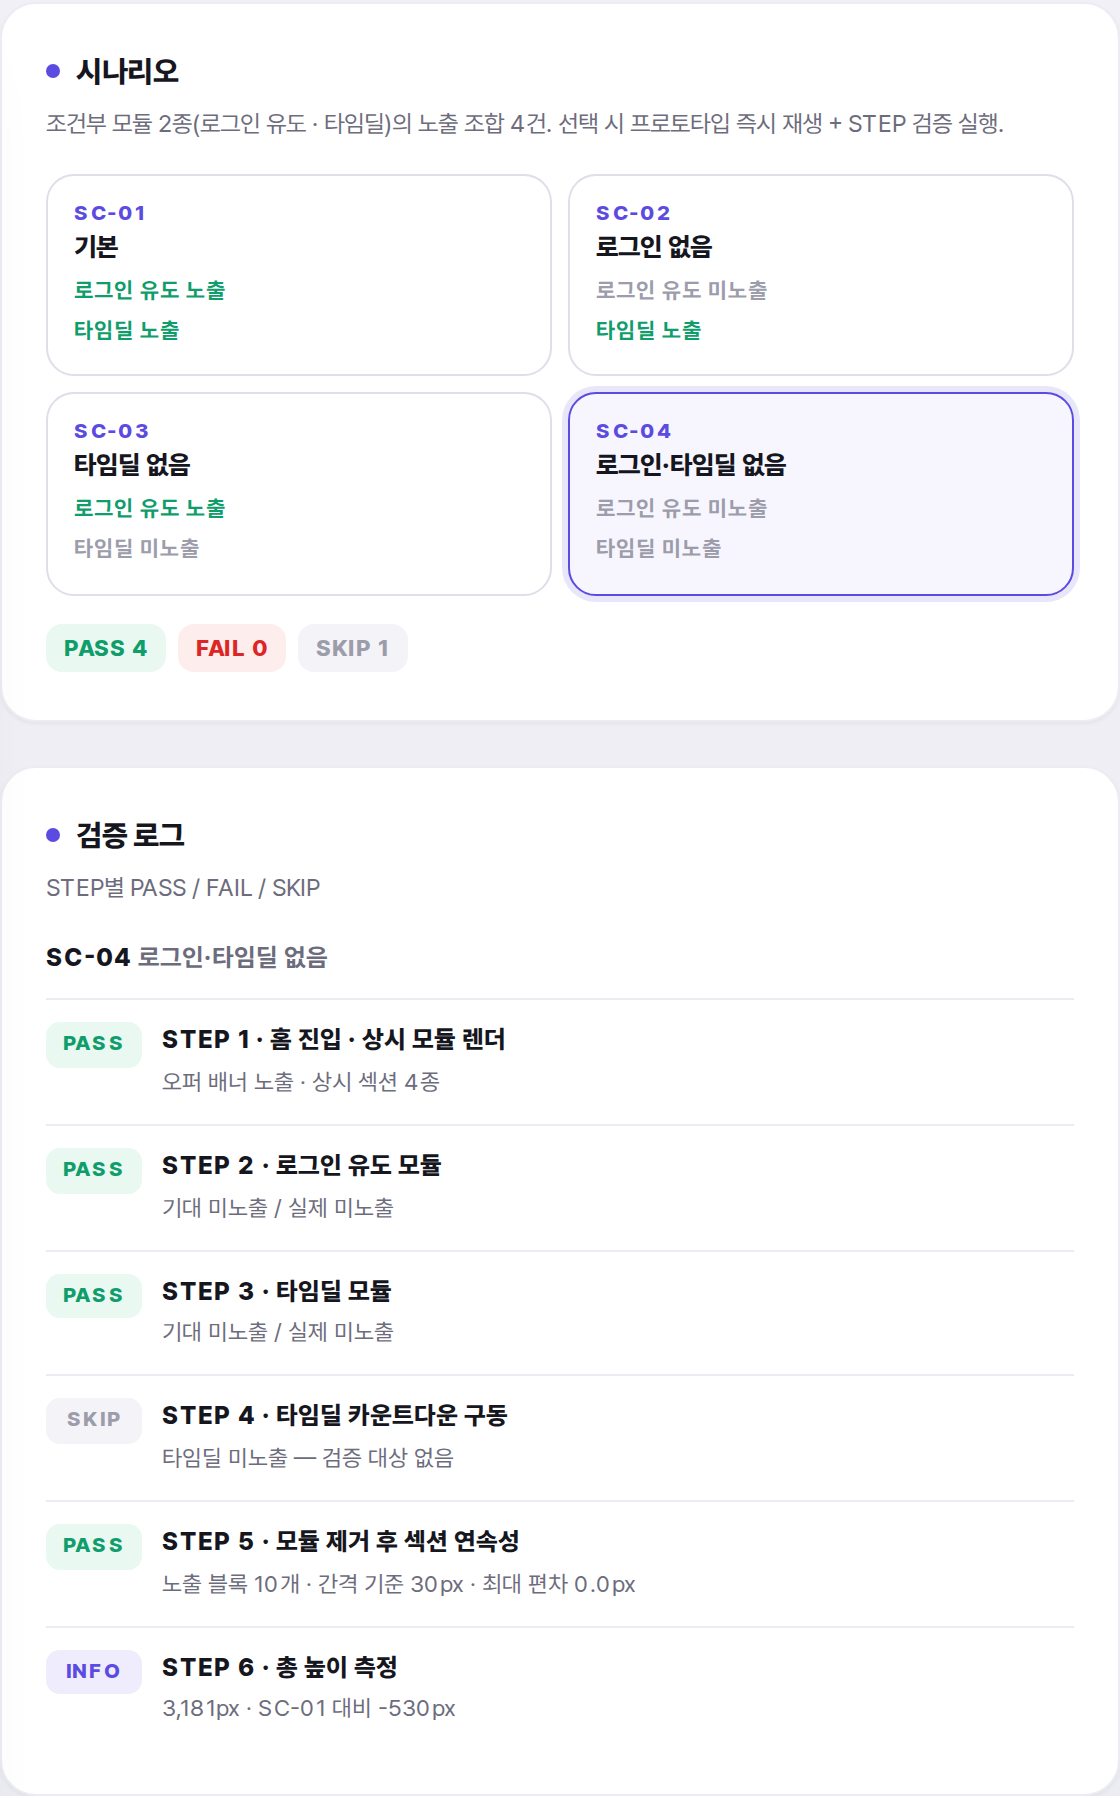
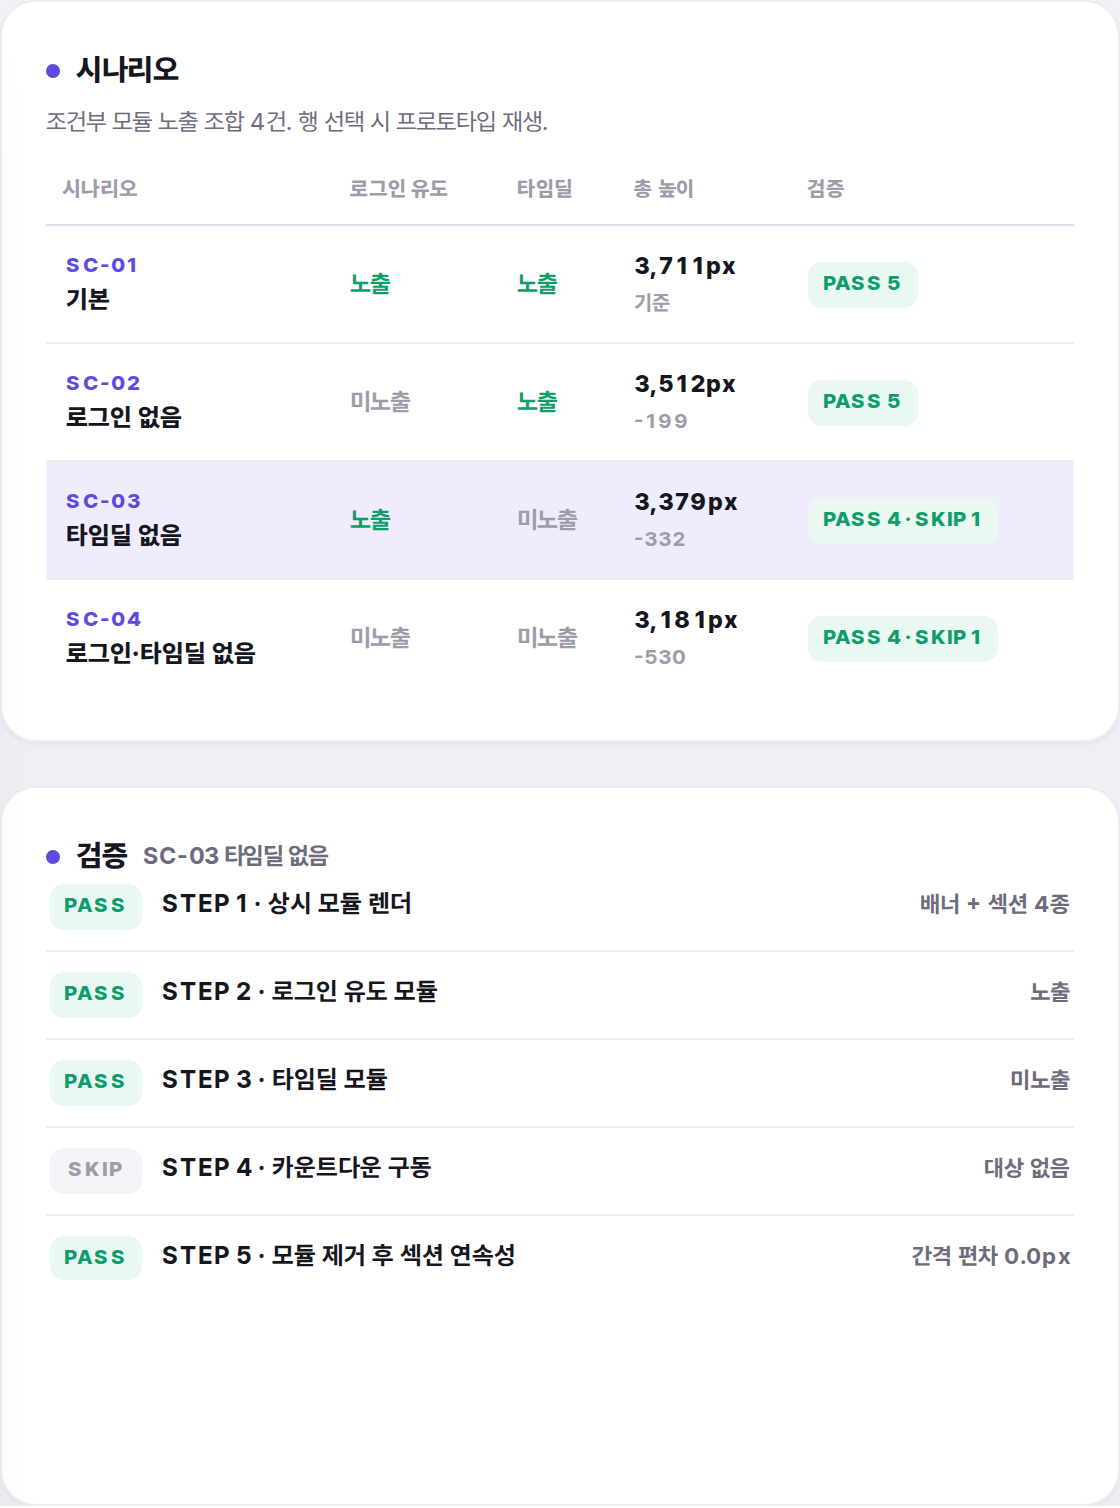
report: 2026-09-18 13:59 - mod 2 (Claude outputs/시나리오_시뮬레이터.png, index.html)

diff --git a/index.html b/index.html
@@ -123,34 +123,36 @@ table.r-t td.empty{color:var(--muted-2);text-align:center;padding:22px 14px;font
 .r-warn{background:var(--warn-bg);border:1px solid #F3DDB4;border-radius:14px;padding:15px 17px;font-size:12.5px;color:#8A5A08;line-height:1.75}
 .r-warn b{color:#7A4E06}
 .r-todo{border:1.5px dashed var(--line-2);border-radius:14px;padding:18px;font-size:12.5px;color:var(--muted-2);text-align:center;font-weight:700;background:rgba(255,255,255,.5)}
-/* ── 시나리오 시뮬레이터 — 모듈 노출 조건별 재생 · STEP 검증 ── */
+/* ── 시나리오 시뮬레이터 — 조건 매트릭스 + STEP 검증 ── */
 .sim-col{flex:1 1 360px;max-width:560px;display:flex;flex-direction:column;gap:22px}
-.sim-cases{display:grid;grid-template-columns:1fr 1fr;gap:8px}
-.sim-case{display:flex;flex-direction:column;align-items:flex-start;gap:1px;padding:12px 13px;border:1px solid var(--line-2);border-radius:14px;background:var(--surface);text-align:left;transition:all .15s}
-.sim-case:hover{border-color:var(--main-mid)}
-.sim-case.on{border-color:var(--main);background:var(--main-ghost);box-shadow:var(--ring)}
-.sim-case b{font-size:10.5px;font-weight:800;color:var(--main);letter-spacing:.03em}
-.sim-case span{font-size:13px;font-weight:800;color:var(--ink);line-height:1.6}
-.sim-case i{font-style:normal;font-size:11px;font-weight:700;line-height:1.75}
-.sim-case i.y{color:var(--ok)}
-.sim-case i.n{color:var(--muted-2)}
-.sim-sum{display:flex;gap:6px;margin:14px 0 0;font-size:11.5px;font-weight:800}
-.sim-sum span{padding:3px 9px;border-radius:8px}
-.sim-sum .p{color:var(--ok);background:var(--ok-bg)}
-.sim-sum .f{color:var(--err);background:var(--err-bg)}
-.sim-sum .s{color:var(--muted-2);background:var(--bg)}
-.sim-head{font-size:12.5px;font-weight:800;color:var(--ink);padding-bottom:10px;border-bottom:1px solid var(--line)}
-.sim-head em{font-style:normal;color:var(--muted);font-weight:700}
-.sim-row{display:flex;gap:10px;align-items:flex-start;padding:11px 0;border-bottom:1px solid var(--line)}
-.sim-row:last-child{border-bottom:0}
-.sim-row .st{flex-shrink:0;width:48px;text-align:center;padding:3px 0;border-radius:7px;font-size:10.5px;font-weight:800;letter-spacing:.03em}
+.sim-t{width:100%;border-collapse:collapse;font-size:12px;margin-top:2px}
+.sim-t th,.sim-t td{text-align:left;padding:11px 8px;border-bottom:1px solid var(--line);vertical-align:middle}
+.sim-t thead th{font-size:10.5px;font-weight:800;color:var(--muted-2);letter-spacing:.04em;padding:0 8px 9px;border-bottom:1px solid var(--line-2)}
+.sim-t tbody tr{cursor:pointer;transition:background .12s}
+.sim-t tbody tr:hover{background:var(--main-ghost)}
+.sim-t tbody tr.on{background:var(--main-weak)}
+.sim-t tbody tr:last-child th,.sim-t tbody tr:last-child td{border-bottom:0}
+.sim-t th[scope=row]{padding-left:10px}
+.sim-t th[scope=row] b{display:block;font-size:10.5px;font-weight:800;color:var(--main);letter-spacing:.04em}
+.sim-t th[scope=row] span{display:block;font-size:12.5px;font-weight:800;color:var(--ink);line-height:1.5;white-space:nowrap}
+.sim-t td.y{color:var(--ok);font-weight:700}
+.sim-t td.n{color:var(--muted-2);font-weight:700}
+.sim-t td.h{font-weight:800;color:var(--ink);white-space:nowrap;font-variant-numeric:tabular-nums}
+.sim-t td.h small{display:block;font-size:10.5px;font-weight:700;color:var(--muted-2)}
+.sim-t td i{display:inline-block;font-style:normal;font-size:10.5px;font-weight:800;padding:3px 8px;border-radius:7px;white-space:nowrap}
+.sim-t i.ok{color:var(--ok);background:var(--ok-bg)}
+.sim-t i.bad{color:var(--err);background:var(--err-bg)}
+.panel h3 em{font-style:normal;font-size:12px;font-weight:700;color:var(--muted)}
+.sim-row{display:flex;gap:10px;align-items:baseline;padding:10px 2px;border-bottom:1px solid var(--line)}
+.sim-row:first-child{padding-top:2px}
+.sim-row:last-child{border-bottom:0;padding-bottom:0}
+.sim-row .st{flex-shrink:0;width:46px;text-align:center;padding:3px 0;border-radius:7px;font-size:10.5px;font-weight:800;letter-spacing:.04em}
 .sim-row .st.pass{color:var(--ok);background:var(--ok-bg)}
 .sim-row .st.fail{color:var(--err);background:var(--err-bg)}
 .sim-row .st.skip{color:var(--muted-2);background:var(--bg)}
-.sim-row .st.info{color:var(--main);background:var(--main-weak)}
-.sim-row .tx{min-width:0}
-.sim-row .tx b{display:block;font-size:12.5px;font-weight:800;color:var(--ink);line-height:1.5}
-.sim-row .tx small{display:block;font-size:11.5px;color:var(--muted);line-height:1.65;margin-top:2px}
+.sim-row .nm{flex:1;font-size:12.5px;font-weight:700;color:var(--ink);line-height:1.5}
+.sim-row .vl{font-size:11.5px;font-weight:700;color:var(--muted);text-align:right;white-space:nowrap}
+.sim-row.fail .vl{color:var(--err)}
 ul.r-l{margin:0 0 0 19px;font-size:13px;line-height:1.85}
 ul.r-l li{margin-bottom:6px}
 ul.r-l li b{font-weight:800}
@@ -1113,13 +1115,11 @@ body.psolo .solo-rl:hover{color:var(--main);border-color:var(--main-mid)}
       <div class="sim-col">
         <div class="panel">
           <h3><span class="dot"></span>시나리오</h3>
-          <p class="sub">조건부 모듈 2종(로그인 유도 · 타임딜)의 노출 조합 4건. 선택 시 프로토타입 즉시 재생 + STEP 검증 실행.</p>
-          <div class="sim-cases" id="sim-cases"></div>
-          <div class="sim-sum" id="sim-sum"></div>
+          <p class="sub">조건부 모듈 노출 조합 4건. 행 선택 시 프로토타입 재생.</p>
+          <table class="sim-t" id="sim-t"></table>
         </div>
         <div class="panel">
-          <h3><span class="dot"></span>검증 로그</h3>
-          <p class="sub">STEP별 PASS / FAIL / SKIP</p>
+          <h3><span class="dot"></span>검증 <em id="sim-cur"></em></h3>
           <div id="sim-log"><div class="r-todo">시나리오 미실행</div></div>
         </div>
       </div>
@@ -1298,12 +1298,12 @@ function setView(id){
     document.getElementById('nav-'+k).className = (k===id ? 'on' : '');
   }
   /* 기기 프레임은 1개. 뷰 전환 시 DOM 을 이동시켜 상태·타이머를 그대로 승계한다 */
-  if(id==='sim'){ simMove('col-sim'); simRun(SIM.cur ? SIM.idx : 0); }
+  if(id==='sim'){ simMove('col-sim'); simRun(SIM.idx); }
   else { simMove('col-proto'); simReset(); }
 }
 /* 상태(S)를 초기값으로 되돌리고 다시 그린다. 시뮬레이터 뷰에서는 현재 시나리오를 재실행한다 */
 function reloadActive(){
-  if(document.getElementById('v-sim').className.indexOf('on')>-1) simRun(SIM.idx);
+  if(document.getElementById('v-sim').className.indexOf('on')>-1){ SIM.res = null; simRun(SIM.idx); }
   else { simReset(); }
 }
 
@@ -1988,6 +1988,7 @@ function npInit(){
      · 로그인 유도 모듈 (.np-login) — 비로그인 진입 시 노출
      · 타임딜 모듈 (#np-deal)       — 진행 중 딜 존재 시 노출
    상시 모듈(배너 · 추천 요금제 · 추천 휴대폰 · 혜택과 서비스 · 고객 지원)은 전 케이스 공통.
+   진입 시 4건을 일괄 측정해 매트릭스를 채우고, 선택 행만 프로토타입에 재생한다.
    ※ 시나리오는 요구사항 확정 전 기준. 확정 항목(C-nn) 연결 시 이 표에 ID 를 붙인다. */
 var SIM_CASES = [
   { id:'SC-01', nm:'기본',              login:true,  deal:true  },
@@ -1995,9 +1996,8 @@ var SIM_CASES = [
   { id:'SC-03', nm:'타임딜 없음',        login:true,  deal:false },
   { id:'SC-04', nm:'로그인·타임딜 없음',  login:false, deal:false }
 ];
-var SIM = { cur:null, idx:0, base:null };
+var SIM = { idx:0, res:null };
 var SIM_Z = 0.87;   /* .np zoom — 측정값을 CSS px 로 환산 */
-var SIM_GAP = 30;   /* 홈 탭 flex gap 기본값 — 실제 값은 computed style 에서 읽는다 */
 
 function simE(id){ return document.getElementById(id); }
 function simVis(el){ return !!(el && el.offsetParent !== null && el.getBoundingClientRect().height > 1); }
@@ -2029,85 +2029,88 @@ function simReset(){
   npInit();
 }
 
-/* STEP 검증 */
+/* STEP 검증 — 적용 직후 DOM 을 읽는다 */
 function simVerify(c){
   var np = simE('np'), home = simE('np-home'), r = [];
   var lg = np.querySelector('.np-login'), dl = simE('np-deal'), bn = np.querySelector('.np-banner');
   var secs = home.querySelectorAll(':scope > .np-sec');
-  var gap = parseFloat(getComputedStyle(home).rowGap) || SIM_GAP;
-  function row(s,n,t,m){ r.push({ s:s, n:n, t:t, m:m }); }
+  var gap = parseFloat(getComputedStyle(home).rowGap) || 30;
+  function row(s, n, t, v){ r.push({ s:s, n:n, t:t, v:v }); }
 
-  row('STEP 1','홈 진입 · 상시 모듈 렌더',
-      (simVis(bn) && secs.length >= 4) ? 'PASS' : 'FAIL',
-      '오퍼 배너 ' + (simVis(bn) ? '노출' : '미노출') + ' · 상시 섹션 ' + secs.length + '종');
+  row(1,'상시 모듈 렌더', (simVis(bn) && secs.length >= 4) ? 'PASS' : 'FAIL', '배너 + 섹션 ' + secs.length + '종');
 
   var lv = simVis(lg);
-  row('STEP 2','로그인 유도 모듈', lv === c.login ? 'PASS' : 'FAIL',
-      '기대 ' + (c.login ? '노출' : '미노출') + ' / 실제 ' + (lv ? '노출' : '미노출'));
+  row(2,'로그인 유도 모듈', lv === c.login ? 'PASS' : 'FAIL',
+      lv === c.login ? (lv ? '노출' : '미노출') : '기대 ' + (c.login ? '노출' : '미노출') + ' / 실제 ' + (lv ? '노출' : '미노출'));
 
   var dv = simVis(dl), n = dl ? dl.querySelectorAll('.item').length : 0;
-  row('STEP 3','타임딜 모듈', dv === c.deal ? 'PASS' : 'FAIL',
-      '기대 ' + (c.deal ? '노출' : '미노출') + ' / 실제 ' + (dv ? '노출 · ' + n + '건' : '미노출'));
+  row(3,'타임딜 모듈', dv === c.deal ? 'PASS' : 'FAIL',
+      dv === c.deal ? (dv ? '노출 · ' + n + '건' : '미노출') : '기대 ' + (c.deal ? '노출' : '미노출') + ' / 실제 ' + (dv ? '노출' : '미노출'));
 
-  if(!c.deal) row('STEP 4','타임딜 카운트다운 구동','SKIP','타임딜 미노출 — 검증 대상 없음');
-  else row('STEP 4','타임딜 카운트다운 구동', (n > 0 && NP.timers.length === n) ? 'PASS' : 'FAIL',
-           '타이머 ' + NP.timers.length + '개 / 딜 카드 ' + n + '건');
+  if(!c.deal) row(4,'카운트다운 구동','SKIP','대상 없음');
+  else row(4,'카운트다운 구동', (n > 0 && NP.timers.length === n) ? 'PASS' : 'FAIL', '타이머 ' + NP.timers.length + ' / ' + n);
 
   var kids = [], ch = home.children, i;
   for(i=0;i<ch.length;i++) if(simVis(ch[i])) kids.push(ch[i]);
-  var worst = 0, wp = '';
+  var worst = 0;
   for(i=0;i<kids.length-1;i++){
     var g = (kids[i+1].getBoundingClientRect().top - kids[i].getBoundingClientRect().bottom) / SIM_Z;
-    var d = Math.abs(g - gap);
-    if(d > worst){ worst = d; wp = (kids[i].getAttribute('aria-label') || '섹션') + ' → ' + (kids[i+1].getAttribute('aria-label') || '섹션'); }
+    worst = Math.max(worst, Math.abs(g - gap));
   }
-  row('STEP 5','모듈 제거 후 섹션 연속성', worst <= 2 ? 'PASS' : 'FAIL',
-      '노출 블록 ' + kids.length + '개 · 간격 기준 ' + gap + 'px · 최대 편차 ' + worst.toFixed(1) + 'px' + (worst > 2 ? ' (' + wp + ')' : ''));
+  row(5,'모듈 제거 후 섹션 연속성', worst <= 2 ? 'PASS' : 'FAIL', '간격 편차 ' + worst.toFixed(1) + 'px');
 
-  var tot = simPx(np);
-  var dt = (SIM.base === null) ? '기준 미측정'
-         : (tot === SIM.base ? '기준 동일' : (tot - SIM.base > 0 ? '+' : '') + (tot - SIM.base).toLocaleString() + 'px');
-  row('STEP 6','총 높이 측정','INFO', tot.toLocaleString() + 'px · SC-01 대비 ' + dt);
-  return r;
+  return { rows:r, h:simPx(np) };
 }
 
-/* 케이스 버튼 */
-function simCases(){
-  var h = '';
+/* 4건 일괄 측정 */
+function simScan(){
+  var out = [], i;
+  for(i=0;i<SIM_CASES.length;i++){ simApply(SIM_CASES[i]); out.push(simVerify(SIM_CASES[i])); }
+  SIM.res = out;
+}
+
+/* 조건 매트릭스 */
+function simTable(){
+  var base = SIM.res[0].h;
+  var h = '<thead><tr><th>시나리오</th><th>로그인 유도</th><th>타임딜</th><th>총 높이</th><th>검증</th></tr></thead><tbody>';
   for(var i=0;i<SIM_CASES.length;i++){
-    var c = SIM_CASES[i], on = (SIM.cur && SIM.cur.id === c.id);
-    h += '<button class="sim-case' + (on ? ' on' : '') + '" onclick="simRun(' + i + ')">' +
-         '<b>' + c.id + '</b><span>' + c.nm + '</span>' +
-         '<i class="' + (c.login ? 'y' : 'n') + '">로그인 유도 ' + (c.login ? '노출' : '미노출') + '</i>' +
-         '<i class="' + (c.deal ? 'y' : 'n') + '">타임딜 ' + (c.deal ? '노출' : '미노출') + '</i></button>';
+    var c = SIM_CASES[i], x = SIM.res[i], p = 0, f = 0, k = 0;
+    for(var j=0;j<x.rows.length;j++){
+      if(x.rows[j].t === 'PASS') p++; else if(x.rows[j].t === 'FAIL') f++; else k++;
+    }
+    var d = x.h - base;
+    h += '<tr class="' + (i === SIM.idx ? 'on' : '') + '" onclick="simRun(' + i + ')">' +
+         '<th scope="row"><b>' + c.id + '</b><span>' + c.nm + '</span></th>' +
+         '<td class="' + (c.login ? 'y' : 'n') + '">' + (c.login ? '노출' : '미노출') + '</td>' +
+         '<td class="' + (c.deal ? 'y' : 'n') + '">' + (c.deal ? '노출' : '미노출') + '</td>' +
+         '<td class="h">' + x.h.toLocaleString() + 'px' + (d ? '<small>' + (d > 0 ? '+' : '') + d.toLocaleString() + '</small>' : '<small>기준</small>') + '</td>' +
+         '<td><i class="' + (f ? 'bad' : 'ok') + '">' + (f ? 'FAIL ' + f : 'PASS ' + p + (k ? ' · SKIP ' + k : '')) + '</i></td></tr>';
   }
-  simE('sim-cases').innerHTML = h;
+  simE('sim-t').innerHTML = h + '</tbody>';
 }
 
-function simPaint(c, r){
-  simCases();
-  var p = 0, f = 0, k = 0, h = '<div class="sim-head">' + c.id + ' <em>' + c.nm + '</em></div>', i;
-  for(i=0;i<r.length;i++){
-    if(r[i].t === 'PASS') p++; else if(r[i].t === 'FAIL') f++; else if(r[i].t === 'SKIP') k++;
-    h += '<div class="sim-row"><span class="st ' + r[i].t.toLowerCase() + '">' + r[i].t + '</span>' +
-         '<div class="tx"><b>' + r[i].s + ' · ' + r[i].n + '</b><small>' + r[i].m + '</small></div></div>';
-  }
+/* 선택 케이스 STEP 로그 */
+function simLog(){
+  var c = SIM_CASES[SIM.idx], r = SIM.res[SIM.idx].rows, h = '';
+  for(var i=0;i<r.length;i++)
+    h += '<div class="sim-row' + (r[i].t === 'FAIL' ? ' fail' : '') + '">' +
+         '<span class="st ' + r[i].t.toLowerCase() + '">' + r[i].t + '</span>' +
+         '<span class="nm">STEP ' + r[i].s + ' · ' + r[i].n + '</span>' +
+         '<span class="vl">' + r[i].v + '</span></div>';
   simE('sim-log').innerHTML = h;
-  simE('sim-sum').innerHTML = '<span class="p">PASS ' + p + '</span><span class="f">FAIL ' + f + '</span><span class="s">SKIP ' + k + '</span>';
+  simE('sim-cur').textContent = c.id + ' ' + c.nm;
 }
 
-/* 실행 — SC-01 총 높이를 기준값으로 먼저 확보한다 */
+/* 실행 */
 function simRun(idx){
-  var c = SIM_CASES[idx]; if(!c) return;
+  if(!SIM_CASES[idx]) return;
   simMove('col-sim');
-  if(SIM.base === null){
-    simApply(SIM_CASES[0]);
-    SIM.base = simPx(simE('np'));
-  }
-  simApply(c);
-  SIM.cur = c; SIM.idx = idx;
-  simPaint(c, simVerify(c));
+  if(!SIM.res) simScan();
+  SIM.idx = idx;
+  simApply(SIM_CASES[idx]);
+  simTable(); simLog();
 }
+
 
 /* 단독 프로토타입 모드 — ?proto=1 또는 #proto 진입 시 리포트 크롬을 제거한다 */
 (function(){
